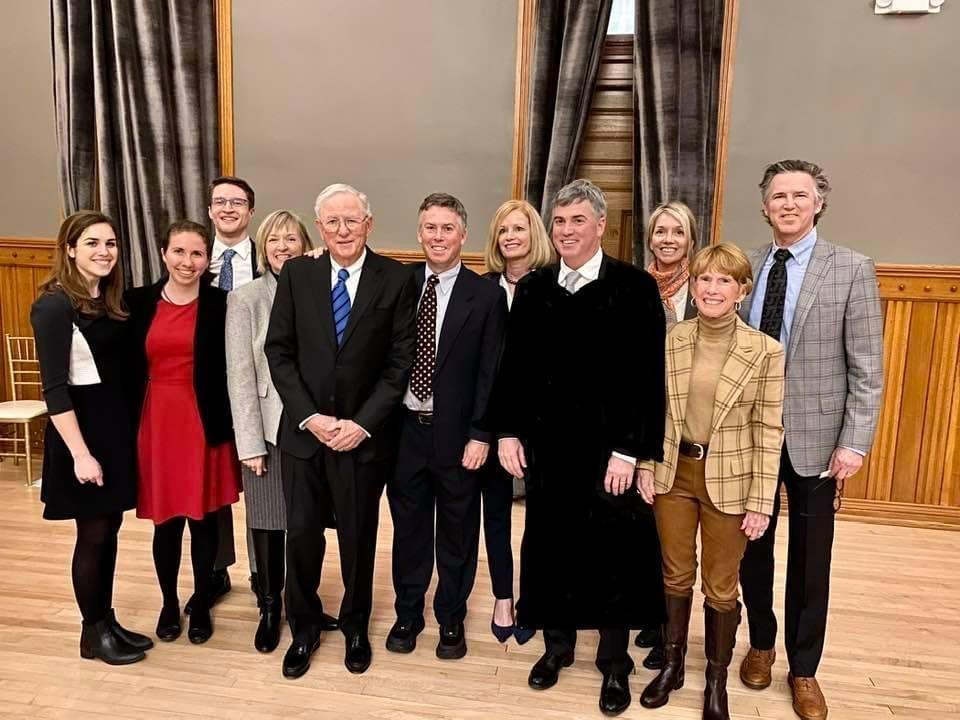
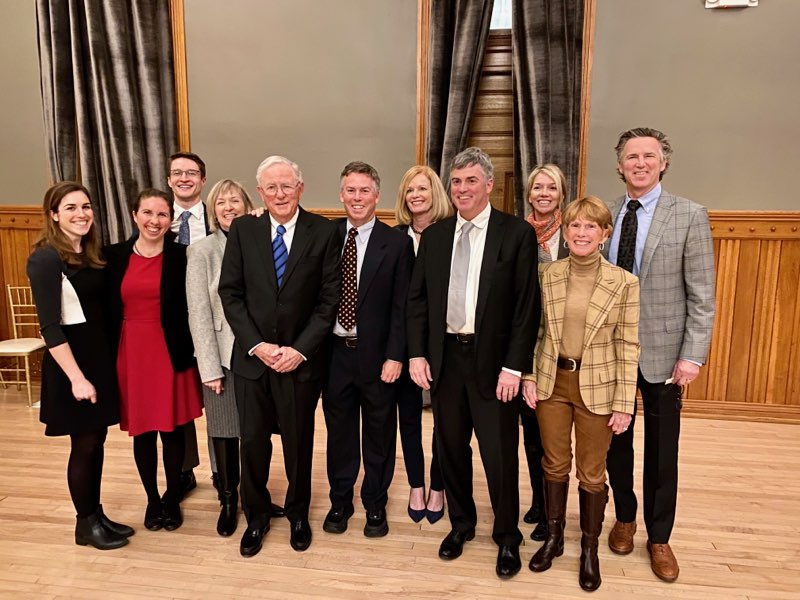
added endorsements and changed investiture photo on about page

diff --git a/src/components/organisms/Endorsements/index.js b/src/components/organisms/Endorsements/index.js
@@ -124,7 +124,7 @@ const Endorsements = () => {
       <ContentContainer>
         <Grid>
           <EndorsementsTitle>
-            District II Circuit Court Judges & Municipal Judges
+            District II Circuit Court & Municipal Judges
           </EndorsementsTitle>
           <EndorsementsGrid>
             <Column>
@@ -161,9 +161,9 @@ const Endorsements = () => {
             </Column>
             <Column>
               <EndorsementsList>
-                <li>Hon. Christine Ohlis</li>
+                <li>Hon. Christine E. Ohlis</li>
                 <li>Hon. James G. Pouros</li>
-                <li>Hon. Gerald Ptacek*</li>
+                <li>Hon. Gerald P. Ptacek*</li>
                 <li>Hon. Ralph M. Ramirez</li>
                 <li>Hon. David M. Reddy</li>
                 <li>Hon. Mark R.Rohrer</li>
@@ -220,19 +220,21 @@ const Endorsements = () => {
             <Column>
               <EndorsementsList>
                 <li>Michael Aldana</li>
-                <li>Brad Backer</li>
+                <li>Brad C. Backer</li>
                 <li>Chess Barbatelli</li>
                 <li>Steve J. Berryman</li>
                 <li>Ave M. Bie</li>
-                <li>Joanne Bischmann </li>
-                <li>John Busch</li>
+                <li>Joanne M. Bischmann </li>
+                <li>John A. Busch</li>
                 <li>Tonit M. Calaway</li>
-                <li>Jim Clark</li>
-                <li>Ignacio Cortina</li>
+                <li>James R. Clark</li>
+                <li>Gerald E. Connolly</li>
+                <li>Ignacio A. Cortina</li>
                 <li>Brian Cothroll</li>
+                <li>John W. Daniels, Jr.</li>
                 <li>John A. Dickens</li>
                 <li>Thomas L. Doerr </li>
-                <li>Rob Dudek</li>
+                <li>Robert Dudek</li>
                 <li>Daniel T. Flaherty</li>
                 <li>Mark P. Fogarty</li>
                 <li>Michelle M. Friedman</li>
@@ -252,52 +254,55 @@ const Endorsements = () => {
                 <li>Paul J. Jones </li>
                 <li>Olivia M. Kelley</li>
                 <li>Ted D. Kellner</li>
+                <li>Daniel J. Kennedy</li>
                 <li>John P. Kennedy</li>
+                <li>Rebecca F. Kennedy</li>
                 <li>Jennie Kent</li>
                 <li>John Kirtley</li>
                 <li>Thomas F. Kissinger</li>
                 <li>Daniel J. La Fave</li>
                 <li>Kevin M. Long</li>
                 <li>Susan E. Lovern</li>
-                <li>Natalie Maciolek</li>
+                <li>Natalie G. Maciolek</li>
                 <li>Quinn W. Martin </li>
                 <li>L. Katie Mason</li>
                 <li>Eric W. Matzke</li>
-                <li>Todd Meyer</li>
+                <li>Todd R. Meyer</li>
                 <li>James W. Mohr</li>
-                <li>Jeffrey Mohr</li>
+                <li>Jeffrey T. Mohr</li>
                 <li>David P. Muth</li>
                 <li>Deni D. Naumann</li>
                 <li>Michael E. Naumann</li>
                 <li>Barbara A. O’Brien</li>
                 <li>Jerome D. Okarma</li>
-                <li>Thomas C. Pence </li>
               </EndorsementsList>
             </Column>
             <Column>
               <EndorsementsList>
+                <li>Thomas C. Pence </li>
                 <li>Lisa Preston</li>
                 <li>Jay O. Rothman</li>
                 <li>John A. Rothstein</li>
                 <li>Christopher M. Scherer</li>
-                <li>Thomas L. Shriner, Jr.</li>
                 <li>William P. Schultz</li>
                 <li>Sara P. Scullen</li>
-                <li>Sean Scullen</li>
-                <li>Lee Seese</li>
-                <li>John Shannon</li>
+                <li>Sean M. Scullen</li>
+                <li>Lee M. Seese</li>
+                <li>John G. Shannon</li>
+                <li>Thomas L. Shriner, Jr.</li>
                 <li>Brian R. Smigelski</li>
-                <li>Tom Spero</li>
+                <li>Thomas L. Spero</li>
                 <li>Jeffrey K. Spoerk</li>
                 <li>Jay R. Starrett</li>
-                <li>Bill Toman</li>
-                <li>Joe Tyson</li>
+                <li>William J. Toman</li>
+                <li>Joseph B. Tyson, Jr.</li>
                 <li>Thomas E. Valentyn</li>
-                <li>Dan Vliet</li>
+                <li>Eric J. Van Vugt</li>
+                <li>Daniel G. Vliet</li>
                 <li>Nicholas P. Wahl</li>
                 <li>Brent Walters</li>
                 <li>Ralph A. Weber</li>
-                <li>Monte Weiss</li>
+                <li>Monte E. Weiss</li>
                 <li>Patricia M. Whaley</li>
                 <li>Mark C. Witt</li>
               </EndorsementsList>
